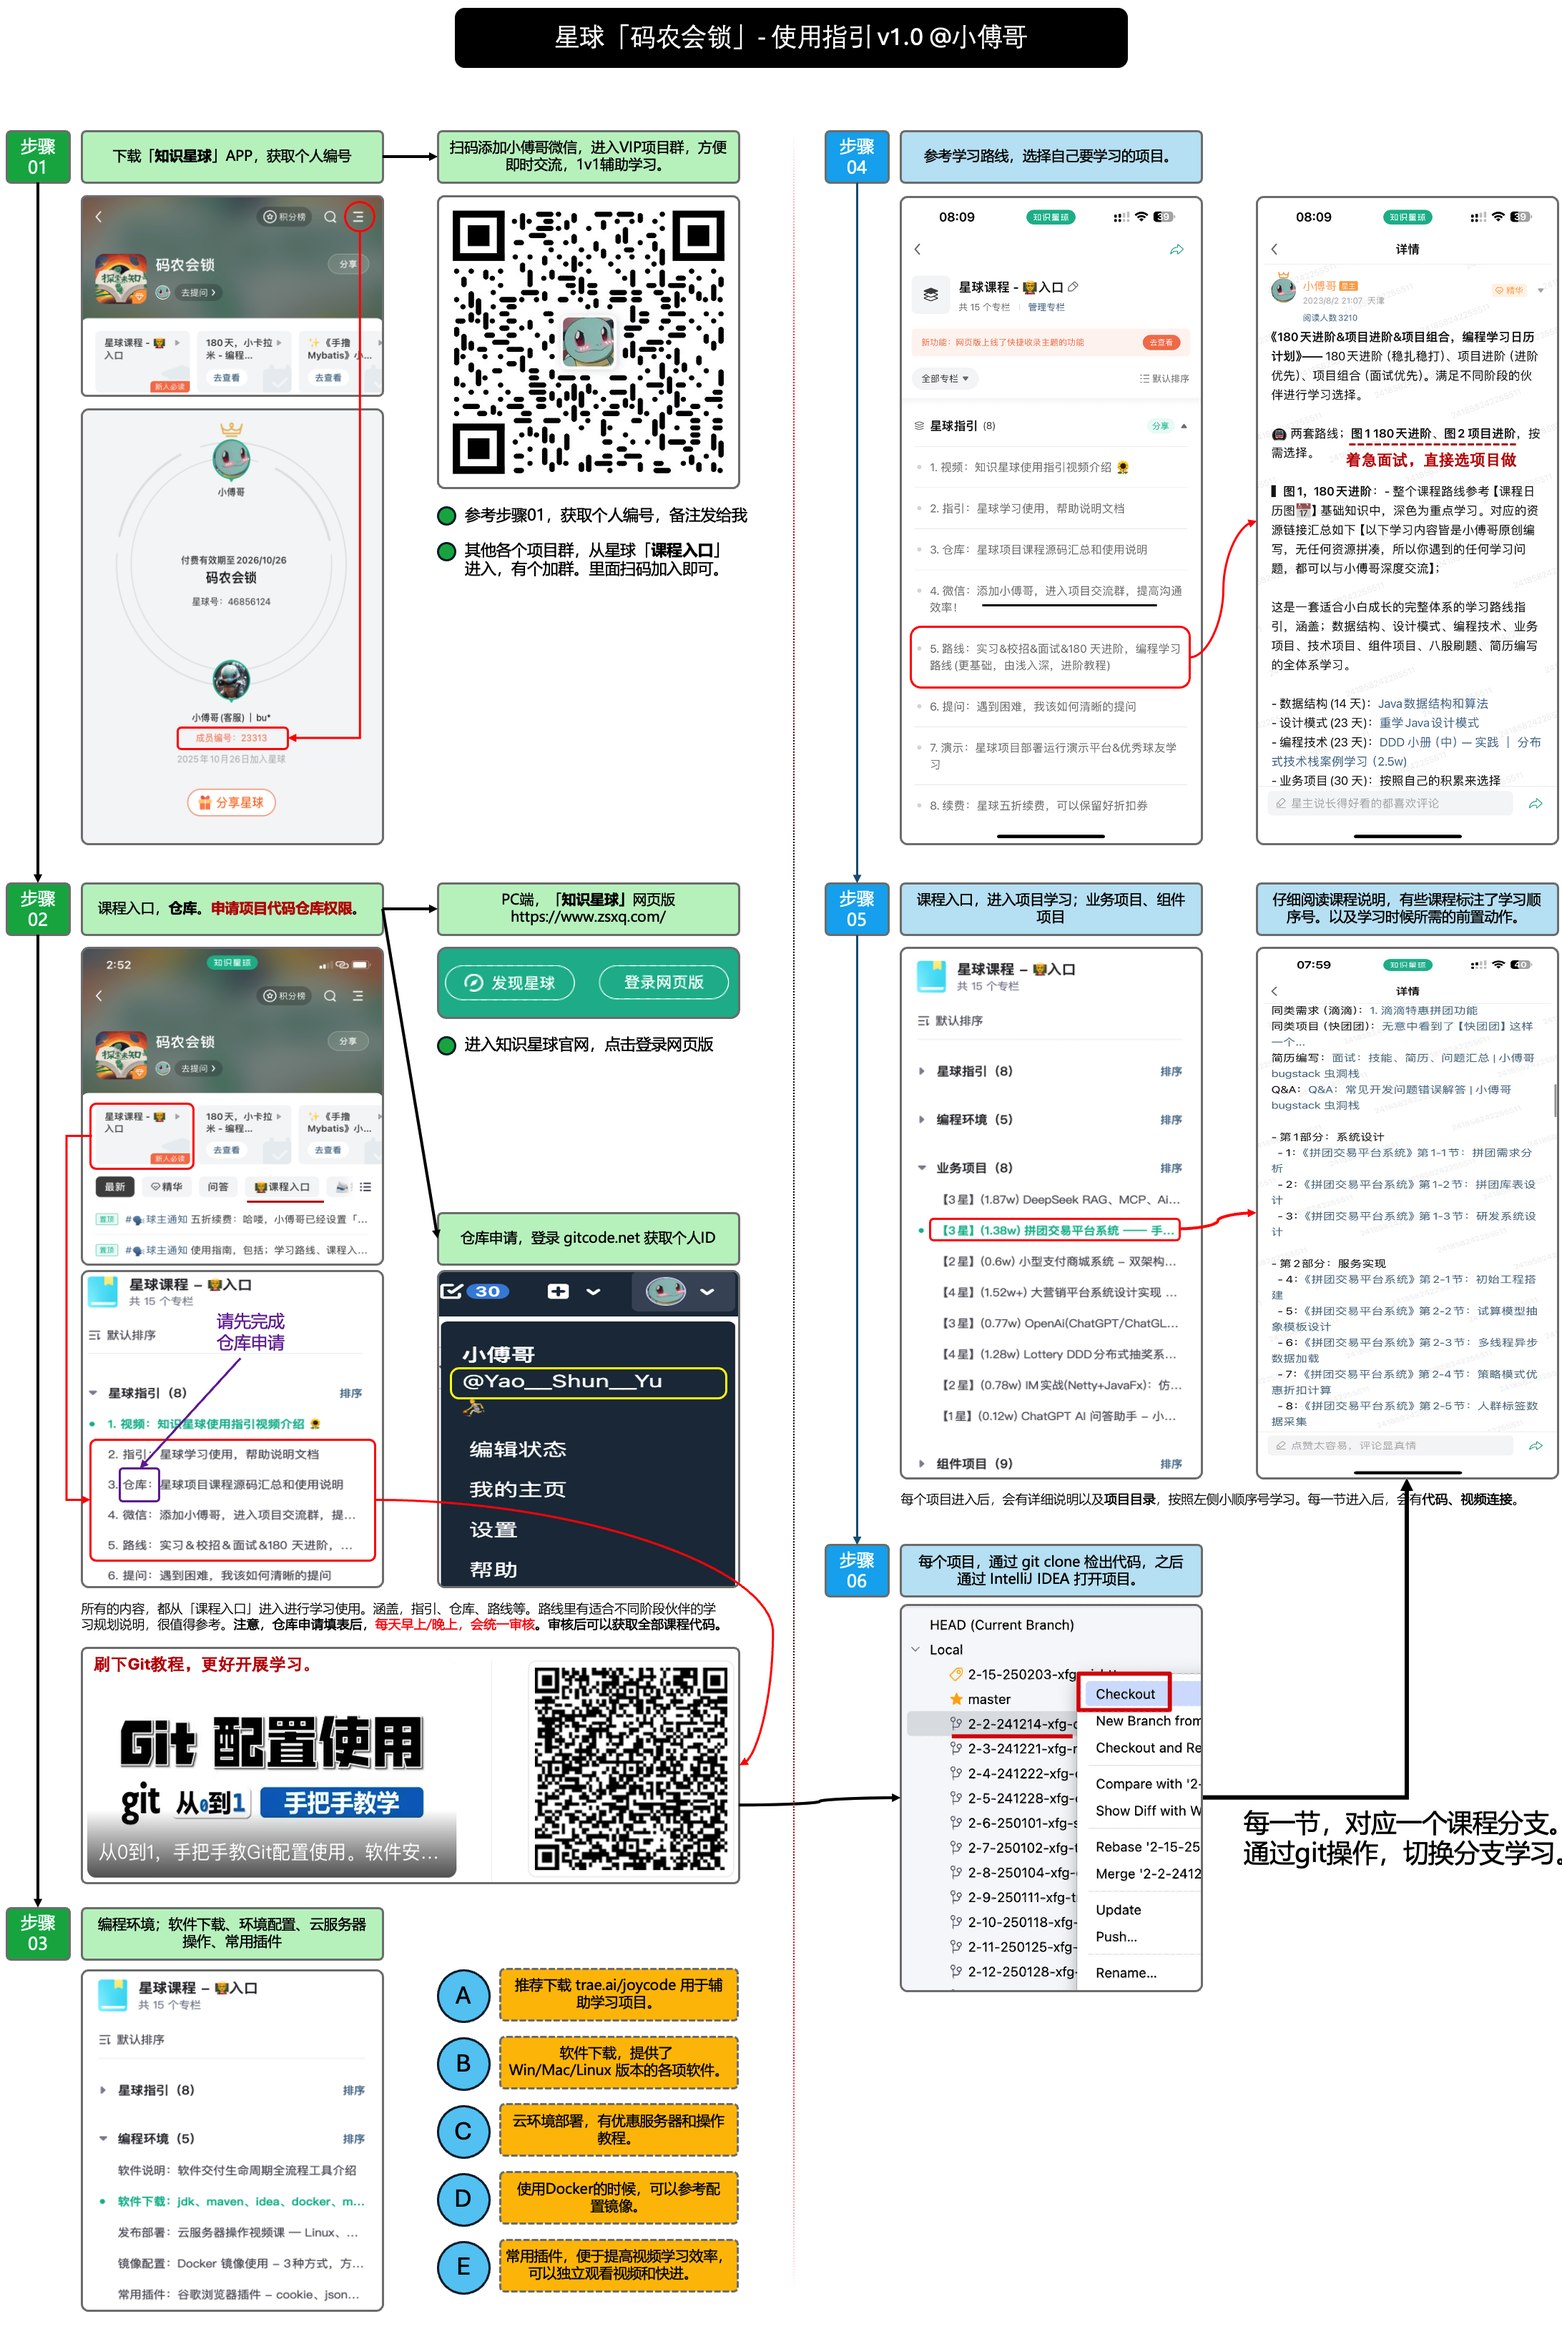
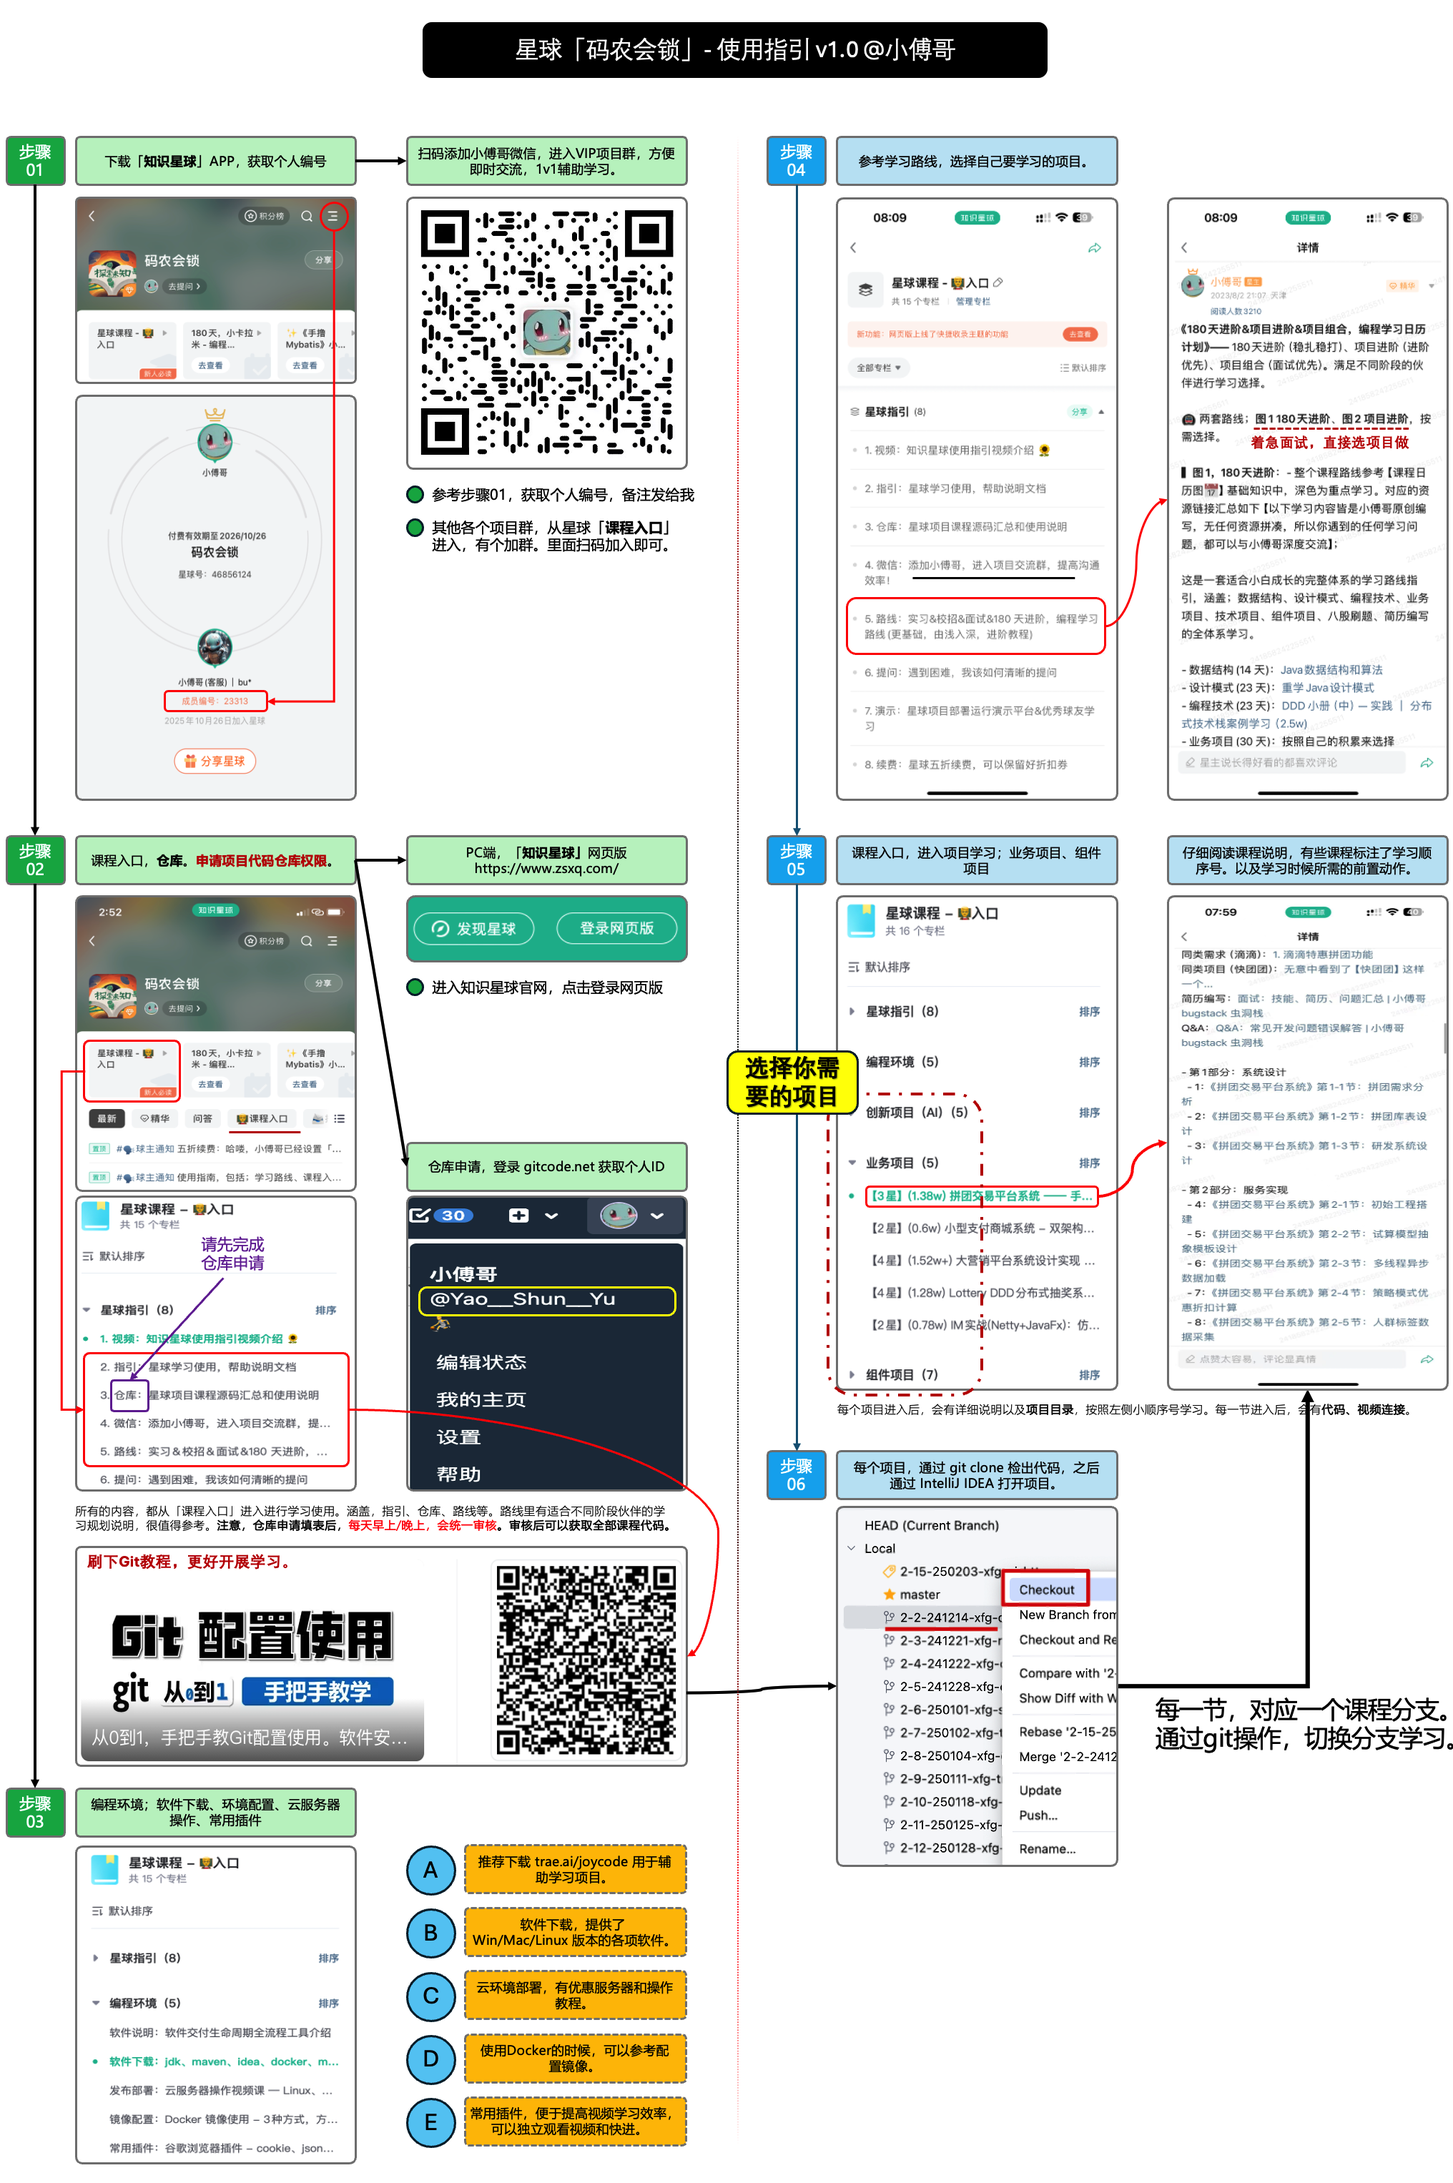
feat：目录调整

diff --git a/docs/md/zsxq/introduce.md b/docs/md/zsxq/introduce.md
@@ -74,21 +74,22 @@ lock: no
 
 **课程链接**：- 整个课程路线参考【课程日历图📅】，对应的资源链接汇总如下；
 
-- 业务项目
-
+- 创新项目（AI）
+  - 【3星】[(1.20w) AI MCP Gateway 网关服务系统](https://bugstack.cn/md/project/ai-mcp-gateway/ai-mcp-gateway.html)
   - 【3星】[(1.87w) Deepseek RAG、MCP、Agent 智能体](https://t.zsxq.com/Zq7hV)
+  - 【2星】[(0.11w) OpenAI 代码自动评审组件](https://t.zsxq.com/gYEVX)
+  - 【3星】[(0.77w) OpenAi(ChatGPT\ChatGLM) 微服务应用体系构建](https://t.zsxq.com/19aSkDvYB)
+  - 【1星】[(0.12w) ChatGPT AI问答助手](https://t.zsxq.com/zGj7F)
+  
+- 业务项目
   - 【3星】[(1.15w) 拼团交易平台系统 - 微服务&分布式](https://t.zsxq.com/3X9GA)
   - 【2星】[(0.6w) 小型支付商城系统 - 双架构开发（带小白入门）](https://t.zsxq.com/BDFJJ)
   - 【4星】[(1.41w) 大营销平台系统 - 微服务&分布式](https://t.zsxq.com/199mpn9Lt)
-  - 【3星】[(0.77w) OpenAi(ChatGPT\ChatGLM) 微服务应用体系构建](https://t.zsxq.com/19aSkDvYB)
   - 【4星】[(1.28w) Lottery DDD分布式抽奖系统](https://t.zsxq.com/qrUSd)
   - 【2星】[(0.78w) IM实战(Netty+JavaFx)：仿桌面版微信聊天](https://t.zsxq.com/NcPgw)
-  - 【1星】[(0.12w) ChatGPT AI问答助手](https://t.zsxq.com/zGj7F)
 
 - 组件项目
-  - 【3星】[(1.20w) AI MCP Gateway 网关服务系统](https://bugstack.cn/md/project/ai-mcp-gateway/ai-mcp-gateway.html)
   - 【3星】[(0.36w) 通用技术组件 - 🔧扳手工程](https://bugstack.cn/md/zsxq/project/xfg-wrench.html)
-  - 【2星】[(0.11w) OpenAI 代码自动评审组件](https://t.zsxq.com/gYEVX)
   - 【2星】[(0.23w) BCP透视业务流程 - 监控系统](https://t.zsxq.com/CVzpL)
   - 【2星】[(0.15w) 动态线程池组件](https://t.zsxq.com/nSebo)
   - 【2星】[(0.31w) 支付SDK设计和开发](https://t.zsxq.com/19WqNkhr2)
